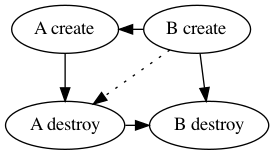
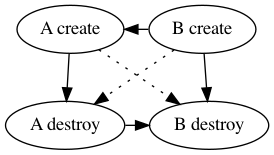
update destroying.md
Update the full-replacement example graph to show the transitive
dependency that is required for the destroy-then-update case. Add
another example describing the case where we reduce the graph to
only an update and replace and the dependency on the destroy node
remains.

diff --git a/docs/destroying.md b/docs/destroying.md
@@ -114,6 +114,7 @@ digraph replacement {
     }
 
     a -> a_d;
+    a -> b_d [style=dotted];
     b -> a_d [style=dotted];
     b -> b_d;
 }
@@ -158,6 +159,28 @@ While the dependency edge from `B update` to `A destroy` isn't necessary in
 these examples, it is shown here as an implementation detail which will be
 mentioned later on.
 
+A final example based on the replacement graph; starting with the above
+configuration where `B` depends on `A`. The graph is reduced to an update of
+`A` while only destroying `B`. The interesting feature here is the remaining
+dependency of `A update` on `B destroy`. We can derive this ordering of
+operations from the full replacement example above, by replacing `A create`
+with `A update` and removing the unused nodes.
+
+![Replace All](./images/destroy_then_update.png)
+<!--
+digraph destroy_then_update {
+    subgraph update {
+        rank=same;
+        a [label="A update"];
+    }
+    subgraph destroy {
+        rank=same;
+        b_d [label="B destroy"];
+    }
+
+    a -> b_d;
+}
+-->
 ## Create Before Destroy
 
 Currently, the only user-controllable method for changing the ordering of
